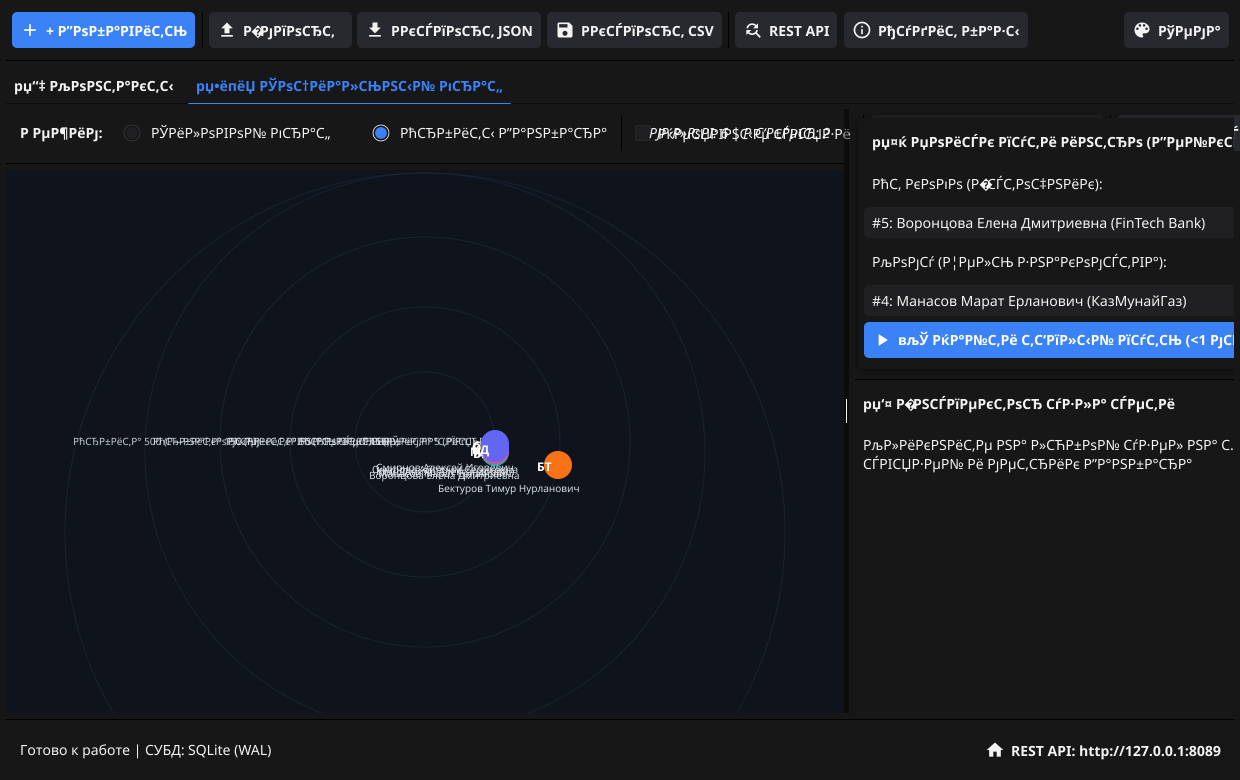
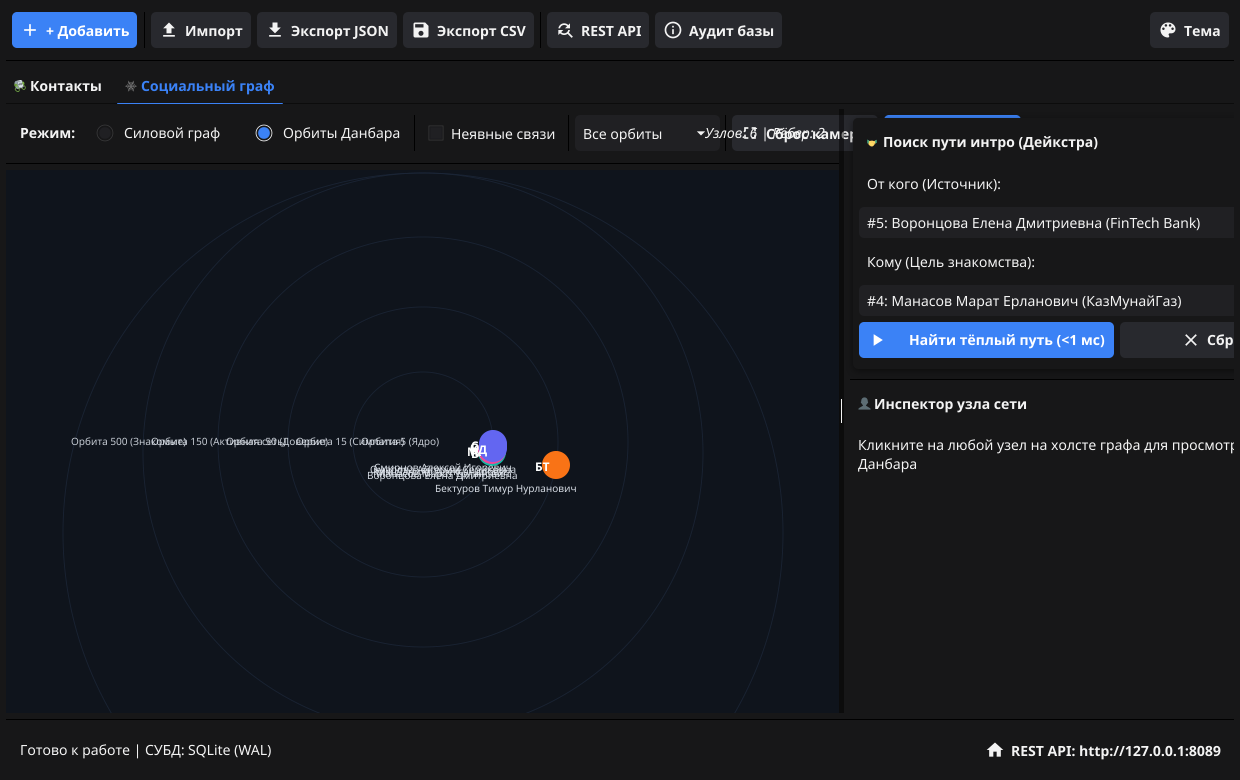
docs(screenshots): add v0.2.0 UI screenshots and design references

diff --git a/docs/screenshots/README.md b/docs/screenshots/README.md
@@ -1,0 +1,58 @@
+# 📸 Визуальный архив эволюции интерфейса GoContact Studio (`v0.1.0` ➔ `v1.0.0`)
+
+> 🔒 **CONFIDENTIAL INTELLECTUAL PROPERTY — trollyHUB / GoContact Studio**  
+> Автоматический визуальный архив скриншотов пользовательского интерфейса по версиям платформы.
+
+---
+
+## 📌 Галерея версий
+
+### Релиз v0.1.0 — «Foundation Baseline»
+Каталог: [`docs/screenshots/v0.1.0/`](./v0.1.0/)
+
+| Скриншот | Тема / Модальное окно | Описание |
+| :--- | :--- | :--- |
+| `ui_main_dark.png` | Dark StudioTheme | Трёхколоночный Master-Detail, панель поиска, список контактов и кнопки действий |
+| `ui_main_light.png` | Light StudioTheme | Светлая тема оформления, адаптивная контрастность виджетов Fyne |
+| `ui_contact_form.png` | Диалог контакта | Двухколоночная карточка создания/редактирования контакта (`780×560`) |
+| `ui_audit_modal.png` | Диалог аудита | Статистика по категориям, аудит дубликатов и целостности базы (`840×480`) |
+
+### Релиз v0.2.0 — «Social Graph & Network Intelligence»
+Каталог: [`docs/screenshots/v0.2.0/`](./v0.2.0/)
+
+#### 🎯 Целевые концепт-дизайны и референсы (Target UI References)
+Каталог: [`docs/screenshots/v0.2.0/references/`](./v0.2.0/references/)
+
+| Референс | Концепция | Описание |
+| :--- | :--- | :--- |
+| `ref_social_graph_force.png` | Force Graph & Warm Intro Pipeline | Концепт сетевого графа с неоновой подсветкой цепочки интро, боковой панелью готовых предложений и карточкой контакта |
+| `ref_social_graph_dunbar.png` | Dunbar Orbits View | Концепт концентрических орбит Данбара (5, 15, 50, 150) с эго-центром, инспектором центральности Brandes и списком прямых контактов |
+| `ref_warm_intro_path.png` | Warm Intro Path Finder & Trust Gauge | Концепт пошаговой цепочки интро (Источник ➔ Посредник ➔ Цель) с круговым радиальным спидометром доверия (`82% TRUST`) |
+
+#### 💻 Фактические скриншоты реализации Fyne v2
+| Скриншот | Режим / Компонент | Описание |
+| :--- | :--- | :--- |
+| `ui_social_graph_force.png` | Режим Force Layout | Интерактивный 60 FPS граф с физикой Barnes-Hut, раскраской кластеров Louvain и метриками посредничества Brandes |
+| `ui_social_graph_dunbar.png` | Режим Dunbar Orbits | Концентрические орбиты Данбара (5, 15, 50, 150) с фильтрацией радиусов близости и квотами социального круга |
+| `ui_warm_intro_path.png` | Warm Intro Path Finder | Поиск кратчайшего маршрута тёплого рукопожатия с расчётом сквозного доверия $T_{path} = \prod w_i$ и цепочкой посредников |
+
+---
+
+## 📐 Регламент работы со скриншотами и референсами для ИИ-агентов
+При разработке каждой новой версии (`v0.X.0`):
+1. **Сохранение референсов дизайна:** При получении концепт-артов или дизайн-макетов от пользователя/дизайнера, агент **обязан** сохранять их в каталоге `docs/screenshots/<версия>/references/` с префиксом `ref_*.png`.
+2. **Снятие эталонных скриншотов реализации:** По завершении разработки интерфейса версии агент запускает headless UI-тесты с флагом `CAPTURE_SCREENSHOTS=1` и сохраняет актуальные скриншоты работы приложения в `docs/screenshots/<версия>/` с префиксом `ui_*.png`.
+3. **Регистрация в документации:** Агент регистрирует все референсы и скриншоты в настоящем реестре [`docs/screenshots/README.md`](./README.md) с кратким описанием каждого экрана.
+4. **Сравнение референса и реализации:** В отчётах релиза сопоставлять реализованные элементы с референсами, фиксируя перенесённые в следующие фазы компоненты.
+
+---
+
+## 🚀 Предстоящие версии визуального архива
+* `v0.3.0/` — Таймлайн взаимодействий Personal CRM, радар затухания `HealthScore`, предвстречные досье.
+* `v0.4.0/` — Мастер дедупликации и слияния контактов, диффы полей.
+* `v0.5.0/` — Статус P2P синхронизации CardDAV, журнал CRDT-конфликтов.
+* `v0.6.0/` — Редактор правил автоматизации, визуальный конструктор Smart Views.
+* `v0.7.0/` — Гео-карта городов, 52-недельный Heatmap активности, когортные воронки.
+* `v0.8.0/` — Защищённый Zero-Knowledge сейф, панель локального ИИ (Ollama/MCP).
+* `v0.9.0/` — Менеджер Wasm-плагинов, командная палитра `Ctrl+K`.
+* `v1.0.0/` — Enterprise интерфейс, переключатель языков RU/KZ/EN.
